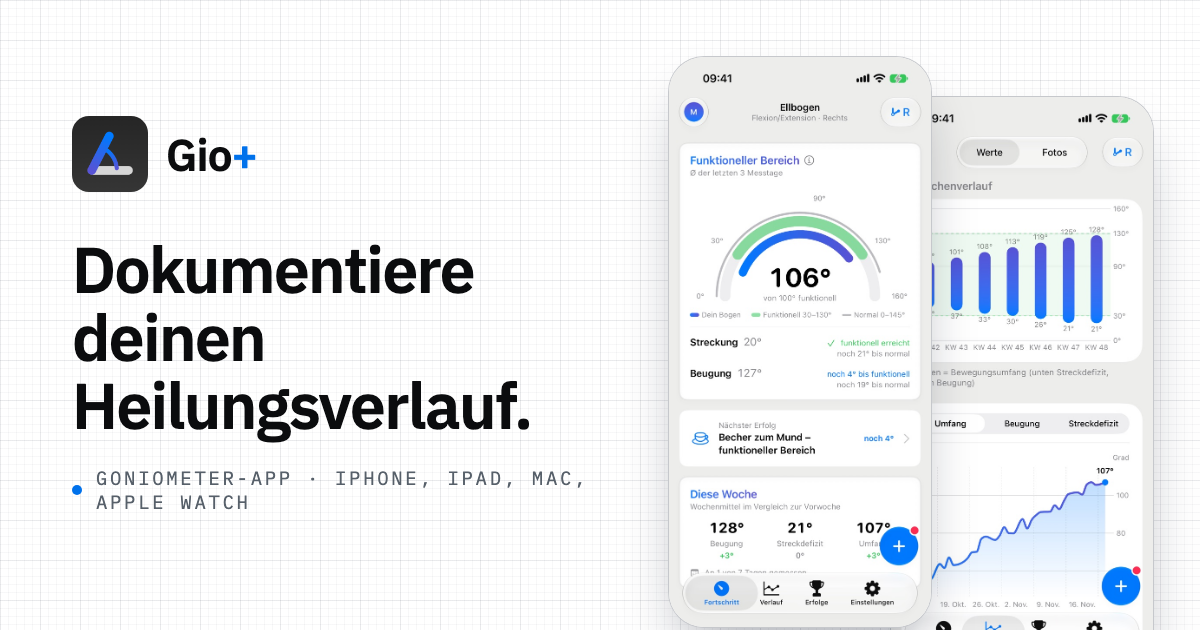
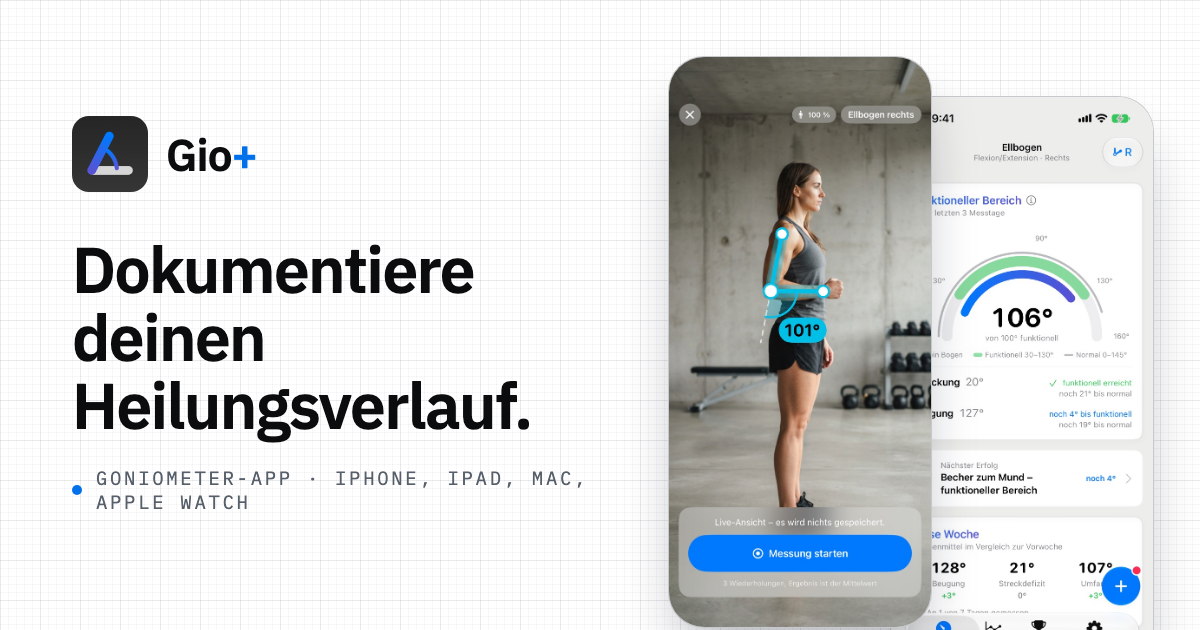
Show the camera measurement in the link preview image
The preview now pairs the camera measurement with the functional range
instead of progress and history.

Changed region(s): [[0.555, 0.0905, 0.9558, 1.0], [0.8325, 0.6635, 0.8633, 0.6937]]

diff --git a/og.html b/og.html
@@ -43,14 +43,14 @@
         <h1 id="h1">Document your recovery.</h1>
         <div class="label"><i></i><span id="label">Goniometer app · iPhone, iPad, Mac, Apple Watch</span></div>
     </div>
-    <div class="shot" style="left: 890px; top: 96px"><img id="history" src="media/screens/light-en-history.jpg" alt=""></div>
-    <div class="shot" style="left: 668px; top: 56px"><img id="progress" src="media/screens/light-en-progress.jpg" alt=""></div>
+    <div class="shot" style="left: 890px; top: 96px"><img id="progress" src="media/screens/light-en-progress.jpg" alt=""></div>
+    <div class="shot" style="left: 668px; top: 56px"><img id="camera" src="media/screens/light-en-camera.jpg" alt=""></div>
     <script>
         if (new URLSearchParams(location.search).get('lang') === 'de') {
             document.documentElement.lang = 'de';
             document.getElementById('h1').textContent = 'Dokumentiere deinen Heilungsverlauf.';
             document.getElementById('label').textContent = 'Goniometer-App · iPhone, iPad, Mac, Apple Watch';
-            document.getElementById('history').src = 'media/screens/light-de-history.jpg';
+            document.getElementById('camera').src = 'media/screens/light-de-camera.jpg';
             document.getElementById('progress').src = 'media/screens/light-de-progress.jpg';
         }
     </script>
